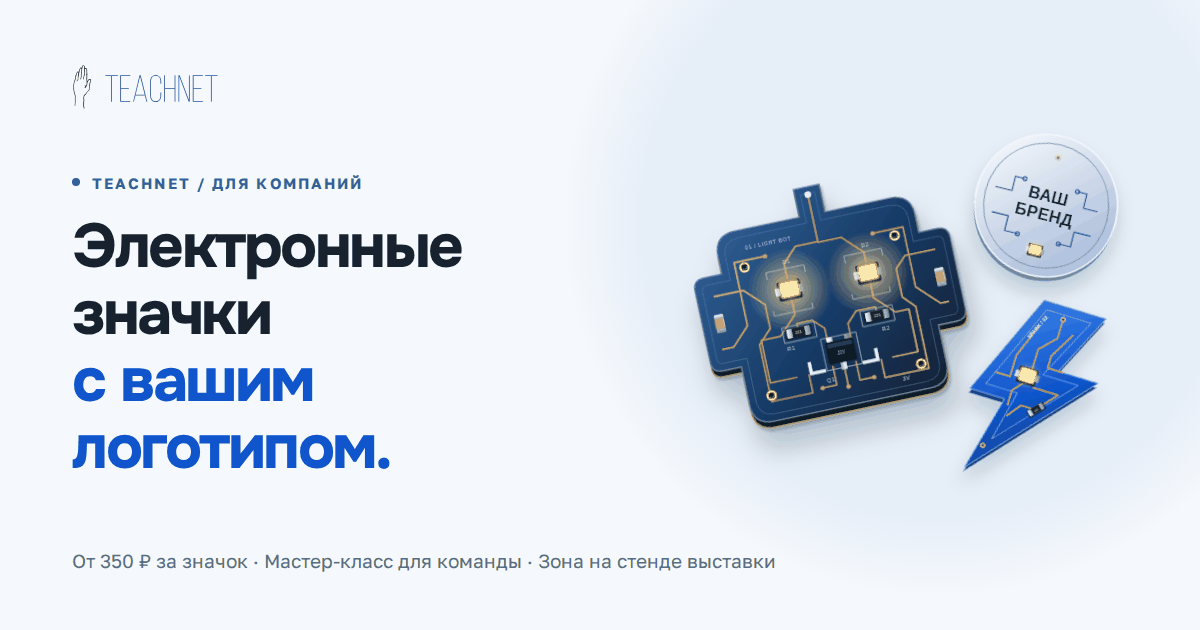
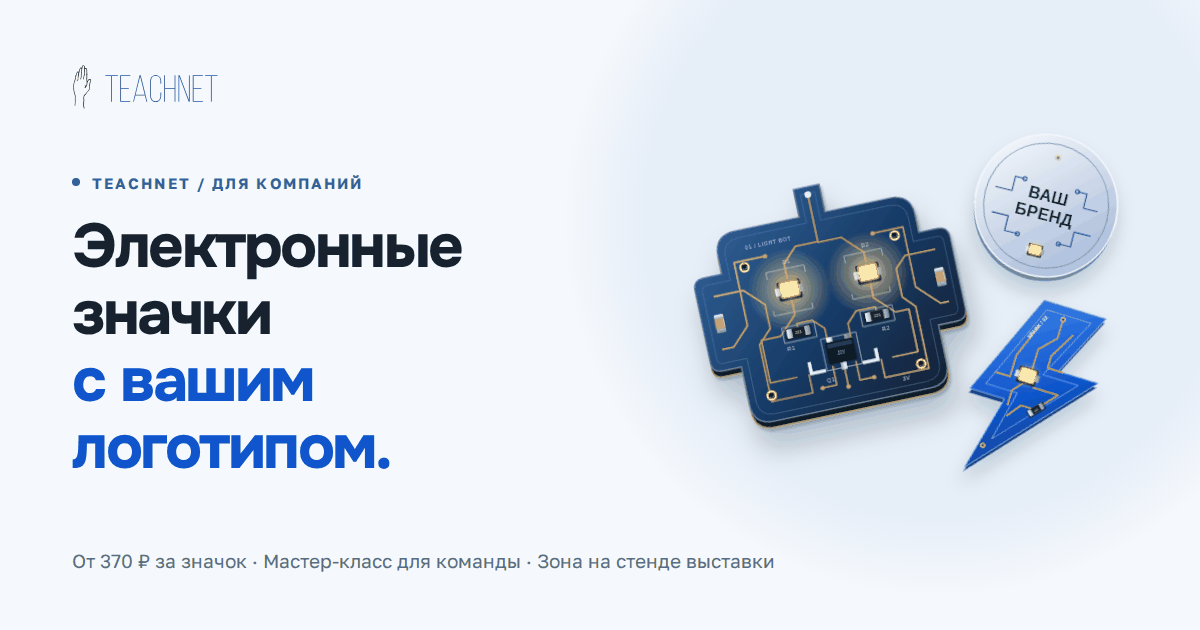
/pcb/: цены владельца, бегущий огонь — по запросу (#97)
- сетка RATES: S 600/450/400/370, M 650/500/450/400, L 850/650/600/550;
  надбавка только за мерцание, бегущий огонь — «Индивидуальный расчёт»
- таблица в #merch и подпись без «предварительно», текст под таблицей,
  убрано «Цены предварительные.», на первом экране и в og — «От 370 ₽»
- тест калькулятора: 100 M = 80 000 ₽, проверка бегущего огня
- /holiday/ не менялась; сервер сумму по ценам не проверяет

Claude-Session: https://claude.ai/code/session_01GrQYjvbuRhVdnUR1ASSNB5

Changed region(s): [[0.0925, 0.8746, 0.6475, 0.9048]]

diff --git a/public/pcb/index.html b/public/pcb/index.html
@@ -56,7 +56,7 @@
             <a class="button" href="#request" data-select-format="merch">Рассчитать тираж</a>
             <a class="button button-secondary" href="#teams">Подобрать формат</a>
           </div>
-          <p class="hero-meta">От 350 ₽ за значок · Мастер-класс для команды · Зона на стенде выставки</p>
+          <p class="hero-meta">От 370 ₽ за значок · Мастер-класс для команды · Зона на стенде выставки</p>
         </div>
         <div class="hero-visual">
           <div class="badge-stage">
@@ -207,16 +207,16 @@
         </div>
         <div class="pricing-table">
           <table>
-            <caption>Цена за значок с ровным светом, предварительно</caption>
+            <caption>Цена за значок с ровным светом</caption>
             <thead><tr><th scope="col">Размер</th><th scope="col">100 шт.</th><th scope="col">300 шт.</th><th scope="col">500 шт.</th><th scope="col">1000 шт.</th></tr></thead>
             <tbody>
-              <tr><th scope="row">S <small>40 мм</small></th><td><strong>550 ₽</strong></td><td><strong>450 ₽</strong></td><td><strong>400 ₽</strong></td><td><strong>350 ₽</strong></td></tr>
-              <tr><th scope="row">M <small>60 мм</small></th><td><strong>600 ₽</strong></td><td><strong>500 ₽</strong></td><td><strong>450 ₽</strong></td><td><strong>400 ₽</strong></td></tr>
-              <tr><th scope="row">L <small>85 мм</small></th><td><strong>800 ₽</strong></td><td><strong>650 ₽</strong></td><td><strong>600 ₽</strong></td><td><strong>550 ₽</strong></td></tr>
+              <tr><th scope="row">S <small>40 мм</small></th><td><strong>600 ₽</strong></td><td><strong>450 ₽</strong></td><td><strong>400 ₽</strong></td><td><strong>370 ₽</strong></td></tr>
+              <tr><th scope="row">M <small>60 мм</small></th><td><strong>650 ₽</strong></td><td><strong>500 ₽</strong></td><td><strong>450 ₽</strong></td><td><strong>400 ₽</strong></td></tr>
+              <tr><th scope="row">L <small>85 мм</small></th><td><strong>850 ₽</strong></td><td><strong>650 ₽</strong></td><td><strong>600 ₽</strong></td><td><strong>550 ₽</strong></td></tr>
             </tbody>
           </table>
         </div>
-        <p class="compact-price-note"><strong>+15 000 ₽</strong> один раз: разработка платы под ваш логотип. На повтор без изменений не начисляется. Мерцание: <strong>+60–100 ₽</strong> за значок (добавляются транзисторы и конденсаторы). Бегущий огонь: <strong>+120–200 ₽</strong> за значок. Чем больше тираж, тем меньше надбавка.</p>
+        <p class="compact-price-note"><strong>+15 000 ₽</strong> один раз: разработка платы под ваш логотип. На повтор без изменений не начисляется. Мерцание: <strong>+60–100 ₽</strong> за значок (добавляются транзисторы и конденсаторы). Чем больше тираж, тем меньше надбавка. Бегущий огонь посчитаем по запросу.</p>
         <div class="offer-bottom"><a class="button" href="#request" data-select-format="merch">Рассчитать тираж <span aria-hidden="true">↗</span></a><p>Другой тираж, больше светодиодов, свой сценарий света, новую форму или крепление посчитаем отдельно.</p></div>
       </div>
     </section>
@@ -260,7 +260,7 @@
     </section>
 
     <aside class="compact-proof" aria-label="Опыт TEACHNET"><div class="shell compact-proof-inner"><span class="proof-title">Опыт TEACHNET</span><strong>358 <span>детей</span></strong><strong>18 <span>мастер-классов</span></strong><strong>30 <span>человек паяли за раз</span></strong><p>Вся летняя программа:<br>робототехника, электроника, пайка.</p></div><div class="shell venues"><span class="venues-title">Где мы были</span><span class="venue">Форум «Сәләт Биләр»</span><span class="venue">«Сәләт Һөнәрләр»</span><span class="venue">МБОУ Школа №4</span><span class="venue">БФ «Семья вместе»</span><span class="venue">Фонд «Закят»</span></div></aside>
-    <section class="section request-section" id="request" aria-labelledby="request-title"><div class="shell request-layout"><div class="request-copy"><p class="eyebrow">От идеи — к заказу</p><h2 id="request-title">Что создадим<br>для вас?</h2><p>Напишите нам или прикиньте бюджет здесь.</p><div class="contact-links"><a class="button" href="https://t.me/teachnet_school" target="_blank" rel="noopener noreferrer">Написать в Telegram <span aria-hidden="true">↗</span></a><a class="contact-phone" href="tel:+79934151434">+7 993 415-14-34</a><a href="mailto:pcb@teachnet.ru">pcb@teachnet.ru</a></div><p class="request-location"><strong>Из Казани — к вам.</strong>Доставка тиража и поездка команды — отдельно.</p></div><div class="request-card"><h3>Прикинем бюджет</h3><p>Цены предварительные. Итог и сроки согласуем.</p><form id="request-form" data-kind="business"><div class="field-grid"><label class="field field-wide" for="format">Формат<select id="format" name="format"><option value="merch">Готовый тираж значков</option><option value="corporate">Корпоративный мастер-класс</option><option value="stand">Зона сборки на стенде</option></select></label><label class="field field-wide" for="quantity"><span id="quantity-label">Тираж</span><select id="quantity" name="quantity"><option value="100">100 значков</option><option value="300">300 значков</option><option value="custom">Другой тираж</option></select></label><label class="field field-wide" for="custom-quantity" id="custom-quantity-field" hidden>Укажите количество<input type="number" inputmode="numeric" id="custom-quantity" name="custom-quantity" min="1" max="100000" placeholder="Например, 25"></label><label class="field field-wide" for="design">Оформление<select id="design" name="design"><option value="new">Новый брендированный значок</option><option value="repeat">Повтор согласованного дизайна</option><option value="custom">Новая форма или электроника</option></select></label><label class="field field-wide" for="badge-size">Размер<select id="badge-size" name="badge-size"><option value="S">S · 40 мм</option><option value="M" selected>M · 60 мм</option><option value="L">L · 85 мм, бейдж или крупный контур</option></select></label><label class="field field-wide" for="light-mode">Как светится<select id="light-mode" name="light-mode"><option value="static">Ровный свет</option><option value="blink">Мерцание: диоды мигают по очереди</option><option value="chase">Бегущий огонь</option></select></label></div><details class="brief-details"><summary>Дата, город и пожелания</summary><div class="field-grid"><label class="field field-wide" for="company">Компания<input id="company" name="company" maxlength="100" placeholder="Название компании" autocomplete="organization"></label><div class="field city-field"><label for="city">Город</label><div class="city-combo"><input id="city" name="city" value="Казань" maxlength="100" autocomplete="off" spellcheck="false" role="combobox" aria-autocomplete="list" aria-expanded="false" aria-controls="city-list" aria-describedby="city-hint"><ul class="city-list" id="city-list" role="listbox" aria-label="Города России" hidden></ul></div><p class="city-hint" id="city-hint" aria-live="polite"></p><input type="hidden" id="city-region" name="city_region"><input type="hidden" id="city-fias" name="city_fias_id"></div><label class="field" for="date">Желаемая дата<input id="date" name="date" type="date"></label><label class="field field-wide" for="comment">Что ещё важно?<textarea id="comment" name="comment" maxlength="1200" rows="3" placeholder="Площадка, пожелания, детали события…"></textarea></label></div></details><div class="estimate-block" aria-live="polite" aria-atomic="true"><span class="estimate-label">Предварительный бюджет</span><output id="estimate-value" class="estimate-value">75 000 ₽</output><p id="estimate-description" class="estimate-description">100 значков и простая адаптация бренда. Доставка отдельно.</p></div><div class="field-grid contact-grid"><label class="field" for="lead-name">Как к вам обращаться<input id="lead-name" name="name" maxlength="80" autocomplete="name" required></label><label class="field" for="lead-contact">Телефон или Telegram<input id="lead-contact" name="contact" maxlength="120" autocomplete="tel" placeholder="+7 917 123-45-67 или @имя" required></label></div><div class="hp" hidden><label>Сайт<input name="website" tabindex="-1" autocomplete="off"></label></div><label class="consent" for="lead-consent"><input type="checkbox" id="lead-consent" name="consent" value="1" required><span>Согласен(на) на обработку персональных данных: <a href="/pcb/consent" target="_blank" rel="noopener">текст согласия</a>, <a href="/pcb/privacy" target="_blank" rel="noopener">политика обработки данных</a></span></label><p class="form-error" id="form-error" role="alert" hidden></p><button class="button submit-button" type="submit">Отправить заявку <span aria-hidden="true">↗</span></button></form><section id="request-sent" class="request-sent" hidden aria-labelledby="sent-title"><h3 id="sent-title" tabindex="-1">Заявка отправлена</h3><p>Спасибо! Мы свяжемся с вами, чтобы обсудить детали.</p></section><section id="request-result" class="request-result" hidden aria-labelledby="result-title"><h3 id="result-title" tabindex="-1">Не получилось отправить заявку</h3><p id="result-text">Отправьте её письмом или в Telegram — текст уже готов.</p><pre id="brief-text"></pre><div class="actions"><a class="button" id="tg-brief" href="https://t.me/teachnet_school" target="_blank" rel="noopener noreferrer">Отправить в Telegram ↗</a><a class="button button-secondary" id="email-brief" href="mailto:pcb@teachnet.ru">Отправить на почту ↗</a><button class="text-link" id="copy-brief" type="button">Скопировать текст</button></div><p class="result-help">При нажатии «Отправить в Telegram» текст скопируется сам: останется вставить его в чат.</p><p class="copy-status" id="copy-status" role="status"></p></section></div></div></section>
+    <section class="section request-section" id="request" aria-labelledby="request-title"><div class="shell request-layout"><div class="request-copy"><p class="eyebrow">От идеи — к заказу</p><h2 id="request-title">Что создадим<br>для вас?</h2><p>Напишите нам или прикиньте бюджет здесь.</p><div class="contact-links"><a class="button" href="https://t.me/teachnet_school" target="_blank" rel="noopener noreferrer">Написать в Telegram <span aria-hidden="true">↗</span></a><a class="contact-phone" href="tel:+79934151434">+7 993 415-14-34</a><a href="mailto:pcb@teachnet.ru">pcb@teachnet.ru</a></div><p class="request-location"><strong>Из Казани — к вам.</strong>Доставка тиража и поездка команды — отдельно.</p></div><div class="request-card"><h3>Прикинем бюджет</h3><p>Итог и сроки согласуем.</p><form id="request-form" data-kind="business"><div class="field-grid"><label class="field field-wide" for="format">Формат<select id="format" name="format"><option value="merch">Готовый тираж значков</option><option value="corporate">Корпоративный мастер-класс</option><option value="stand">Зона сборки на стенде</option></select></label><label class="field field-wide" for="quantity"><span id="quantity-label">Тираж</span><select id="quantity" name="quantity"><option value="100">100 значков</option><option value="300">300 значков</option><option value="custom">Другой тираж</option></select></label><label class="field field-wide" for="custom-quantity" id="custom-quantity-field" hidden>Укажите количество<input type="number" inputmode="numeric" id="custom-quantity" name="custom-quantity" min="1" max="100000" placeholder="Например, 25"></label><label class="field field-wide" for="design">Оформление<select id="design" name="design"><option value="new">Новый брендированный значок</option><option value="repeat">Повтор согласованного дизайна</option><option value="custom">Новая форма или электроника</option></select></label><label class="field field-wide" for="badge-size">Размер<select id="badge-size" name="badge-size"><option value="S">S · 40 мм</option><option value="M" selected>M · 60 мм</option><option value="L">L · 85 мм, бейдж или крупный контур</option></select></label><label class="field field-wide" for="light-mode">Как светится<select id="light-mode" name="light-mode"><option value="static">Ровный свет</option><option value="blink">Мерцание: диоды мигают по очереди</option><option value="chase">Бегущий огонь</option></select></label></div><details class="brief-details"><summary>Дата, город и пожелания</summary><div class="field-grid"><label class="field field-wide" for="company">Компания<input id="company" name="company" maxlength="100" placeholder="Название компании" autocomplete="organization"></label><div class="field city-field"><label for="city">Город</label><div class="city-combo"><input id="city" name="city" value="Казань" maxlength="100" autocomplete="off" spellcheck="false" role="combobox" aria-autocomplete="list" aria-expanded="false" aria-controls="city-list" aria-describedby="city-hint"><ul class="city-list" id="city-list" role="listbox" aria-label="Города России" hidden></ul></div><p class="city-hint" id="city-hint" aria-live="polite"></p><input type="hidden" id="city-region" name="city_region"><input type="hidden" id="city-fias" name="city_fias_id"></div><label class="field" for="date">Желаемая дата<input id="date" name="date" type="date"></label><label class="field field-wide" for="comment">Что ещё важно?<textarea id="comment" name="comment" maxlength="1200" rows="3" placeholder="Площадка, пожелания, детали события…"></textarea></label></div></details><div class="estimate-block" aria-live="polite" aria-atomic="true"><span class="estimate-label">Предварительный бюджет</span><output id="estimate-value" class="estimate-value">80 000 ₽</output><p id="estimate-description" class="estimate-description">100 значков и простая адаптация бренда. Доставка отдельно.</p></div><div class="field-grid contact-grid"><label class="field" for="lead-name">Как к вам обращаться<input id="lead-name" name="name" maxlength="80" autocomplete="name" required></label><label class="field" for="lead-contact">Телефон или Telegram<input id="lead-contact" name="contact" maxlength="120" autocomplete="tel" placeholder="+7 917 123-45-67 или @имя" required></label></div><div class="hp" hidden><label>Сайт<input name="website" tabindex="-1" autocomplete="off"></label></div><label class="consent" for="lead-consent"><input type="checkbox" id="lead-consent" name="consent" value="1" required><span>Согласен(на) на обработку персональных данных: <a href="/pcb/consent" target="_blank" rel="noopener">текст согласия</a>, <a href="/pcb/privacy" target="_blank" rel="noopener">политика обработки данных</a></span></label><p class="form-error" id="form-error" role="alert" hidden></p><button class="button submit-button" type="submit">Отправить заявку <span aria-hidden="true">↗</span></button></form><section id="request-sent" class="request-sent" hidden aria-labelledby="sent-title"><h3 id="sent-title" tabindex="-1">Заявка отправлена</h3><p>Спасибо! Мы свяжемся с вами, чтобы обсудить детали.</p></section><section id="request-result" class="request-result" hidden aria-labelledby="result-title"><h3 id="result-title" tabindex="-1">Не получилось отправить заявку</h3><p id="result-text">Отправьте её письмом или в Telegram — текст уже готов.</p><pre id="brief-text"></pre><div class="actions"><a class="button" id="tg-brief" href="https://t.me/teachnet_school" target="_blank" rel="noopener noreferrer">Отправить в Telegram ↗</a><a class="button button-secondary" id="email-brief" href="mailto:pcb@teachnet.ru">Отправить на почту ↗</a><button class="text-link" id="copy-brief" type="button">Скопировать текст</button></div><p class="result-help">При нажатии «Отправить в Telegram» текст скопируется сам: останется вставить его в чат.</p><p class="copy-status" id="copy-status" role="status"></p></section></div></div></section>
 
     <section class="section compact-faq" id="faq" aria-labelledby="faq-title">
       <div class="shell faq-layout">

diff --git a/public/pcb/static/app.js b/public/pcb/static/app.js
@@ -46,13 +46,15 @@
       } else if(design === 'custom') {
         description = 'Новую форму или электронику посчитаем отдельно по макету.';
       } else if(format === 'merch') {
-        // Предварительная сетка цен: размер × тираж + надбавка за режим света (уточняется владельцем)
+        // Сетка цен: размер × тираж + надбавка за мерцание; бегущий огонь — по запросу
         const TIERS = [100, 300, 500, 1000];
-        const RATES = {S:[550,450,400,350], M:[600,500,450,400], L:[800,650,600,550]};
-        const MODE_ADD = {static:[0,0,0,0], blink:[100,80,70,60], chase:[200,150,130,120]};
+        const RATES = {S:[600,450,400,370], M:[650,500,450,400], L:[850,650,600,550]};
+        const MODE_ADD = {static:[0,0,0,0], blink:[100,80,70,60]};
         const MODE_LABEL = {blink:'мерцание', chase:'бегущий огонь'};
         const size = byId('badge-size') ? byId('badge-size').value : 'M', mode = byId('light-mode') ? byId('light-mode').value : 'static';
-        if(n >= 100 && n <= 5000) {
+        if(mode === 'chase') {
+          description = 'Бегущий огонь посчитаем отдельно: схема зависит от формы и числа светодиодов.';
+        } else if(n >= 100 && n <= 5000) {
           let t = 0; TIERS.forEach((v, i) => { if(n >= v) t = i; });
           const rate = RATES[size][t] + MODE_ADD[mode][t], prep = design === 'repeat' ? 0 : 15000;
           amount = n * rate + prep;

diff --git a/docs/landings.md b/docs/landings.md
@@ -71,7 +71,8 @@ Vite их не собирает, а только копирует в `dist/`; Ta
 - примерка: выбор размера (круг S/M, прямоугольник M/L, бейдж L), режим «Ровный / Мерцание / Бегущий огонь» с анимацией,
   QR на обороте только от M; «Логотип» → «Краска», «Размер» (ползунок) → «Масштаб»;
 - калькулятор: поля «Размер» и «Как светится» (только для тиража), цена = сетка `RATES` + `MODE_ADD` в `app.js`.
-  **Цены — предварительная прикидка, владелец заменит реальными** (таблица и карточки в `public/pcb/index.html`, сетка в `app.js`);
+  Цены от владельца (17.10.2026): таблица в `public/pcb/index.html`, сетка в `app.js`; бегущий огонь — «Индивидуальный расчёт»
+  (вариант в списке остаётся, сумма не считается). Сервер сумму по ценам не проверяет — при смене цен правится только страница и `app.js`;
 - заявка: поля `size_class` (S/M/L) и `light_mode` (static/blink/chase) в `pcb_leads` — в уже созданную таблицу
   добавляются сами (`PCB_ADDED_COLUMNS` в `public/pcb/lib/pcb.php`); размер и режим — в Telegram, письме и дашборде.
 

diff --git a/docs/pcb/notes-for-design-chat.md b/docs/pcb/notes-for-design-chat.md
@@ -53,5 +53,5 @@
 
 ## Открытые вопросы владельцу
 
-Реальные цены (сейчас предварительные), число светодиодов и место под QR на M после разводки,
+Цены на «Праздниках» (на «Компаниям» цены владельца с 17.10.2026, бегущий огонь — по запросу), число светодиодов и место под QR на M после разводки,
 точные габариты плат, реальные фото, согласие площадок лета, счётчик Метрики, юридический адрес ИП для документов.
